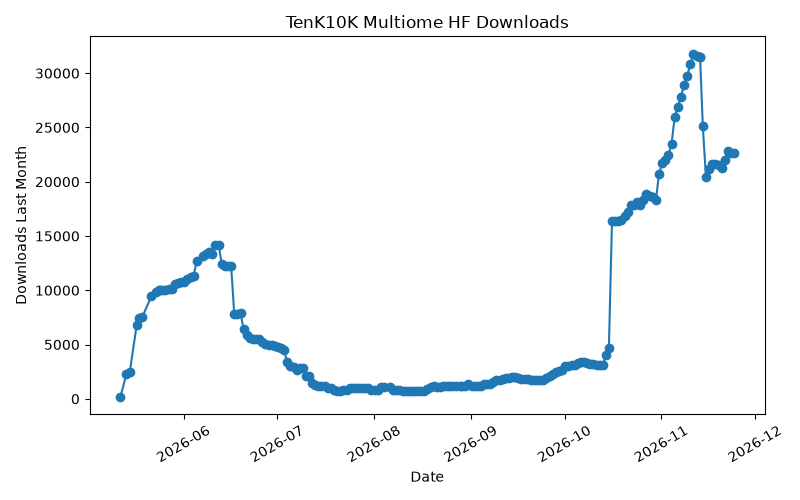
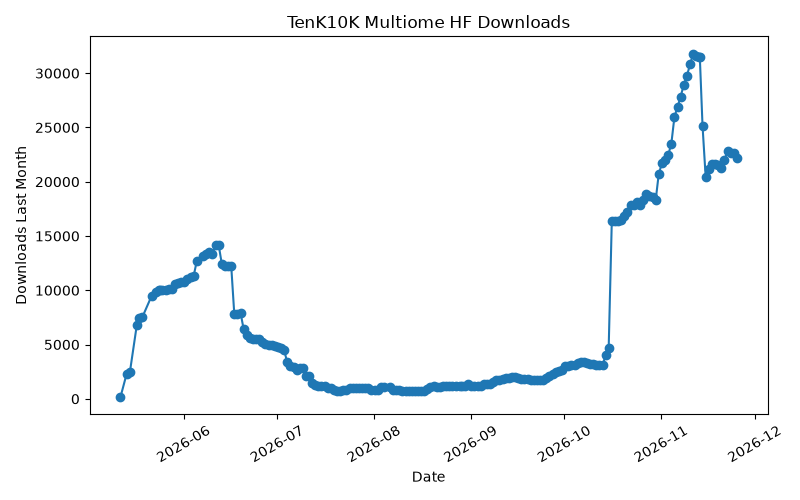
Update download stats

diff --git a/README.md b/README.md
@@ -7,9 +7,9 @@ These counts are retrieved from the [Hugging Face dataset](https://huggingface.c
 
 <!-- download-stats:start -->
 
-- Downloads in the last 30 days: **22,666**
-- Total downloads: **60,663**
+- Downloads in the last 30 days: **22,155**
+- Total downloads: **61,247**
 
-Last updated: 2026-11-24 09:03:13 UTC.
+Last updated: 2026-11-25 07:40:59 UTC.
 
 <!-- download-stats:end -->
